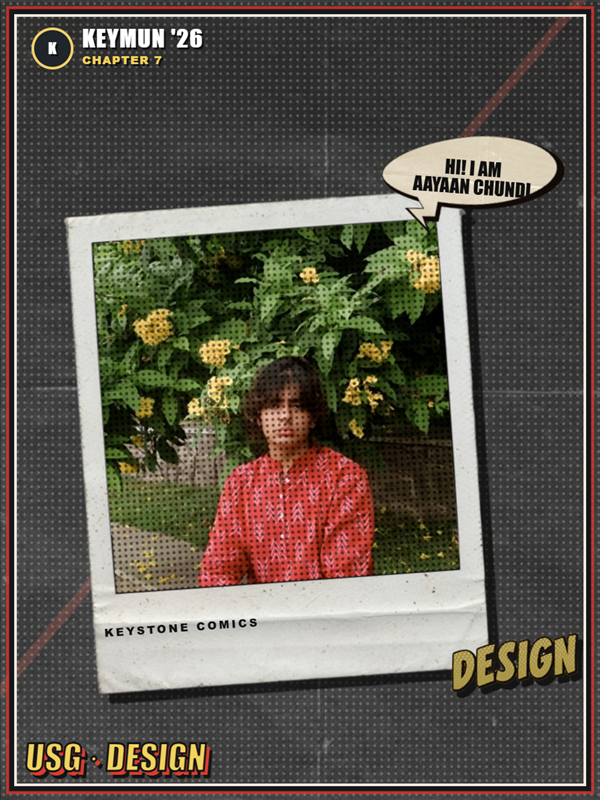
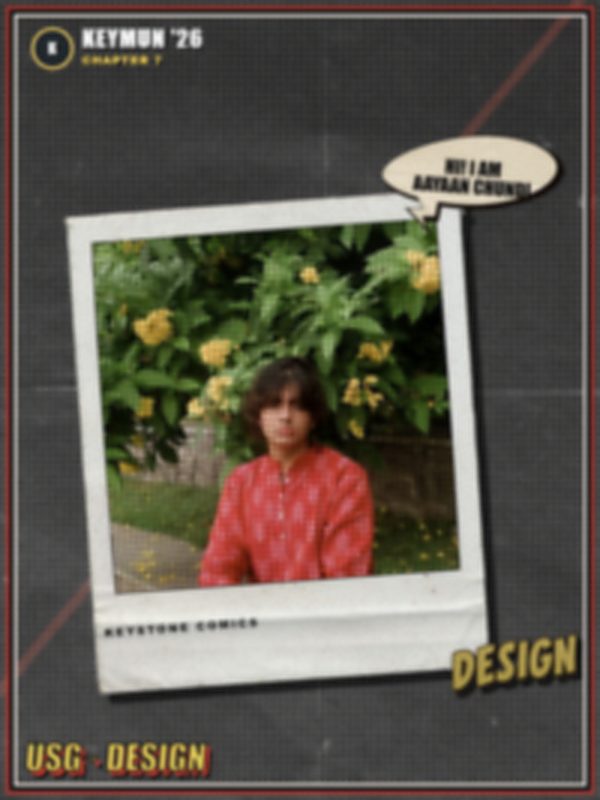
Remove halftone dots from secretariat photos
Applied image processing to each sec-*.png: downsample 33% + LANCZOS +
Gaussian blur + upsample + unsharp mask. This averages out the
halftone dot pattern in the comic image backgrounds while keeping
the polaroid photos recognizable. Originals backed up locally.

diff --git a/index.html b/index.html
@@ -350,7 +350,7 @@ h1,h2,h3,h4{font-family:var(--comic);font-weight:400;line-height:.98;letter-spac
 .pf-duo-art img,.st-art img{width:100%;height:100%;object-fit:cover;display:block}
 .pf-page.pf-portrait{border:none;background:#222}
 .pf-portrait .pf-in{padding:0;display:block;overflow:hidden}
-.pf-portrait .pf-in>img{position:absolute;top:-3%;left:-3%;width:106%;height:106%;object-fit:cover;display:block;filter:blur(0.6px) contrast(1.08) saturate(1.1)}
+.pf-portrait .pf-in>img{position:absolute;top:-3%;left:-3%;width:106%;height:106%;object-fit:cover;display:block;filter:contrast(1.05) saturate(1.05)}
 .pf-duo-role{font-family:var(--display);font-size:.42rem;letter-spacing:.18em;text-transform:uppercase;
   color:rgba(8,8,10,.5);margin-top:.2em}
 .pf-duo-name{font-family:var(--serif);font-size:clamp(.8rem,2vw,1.1rem);color:var(--ink);margin-top:.1em}
